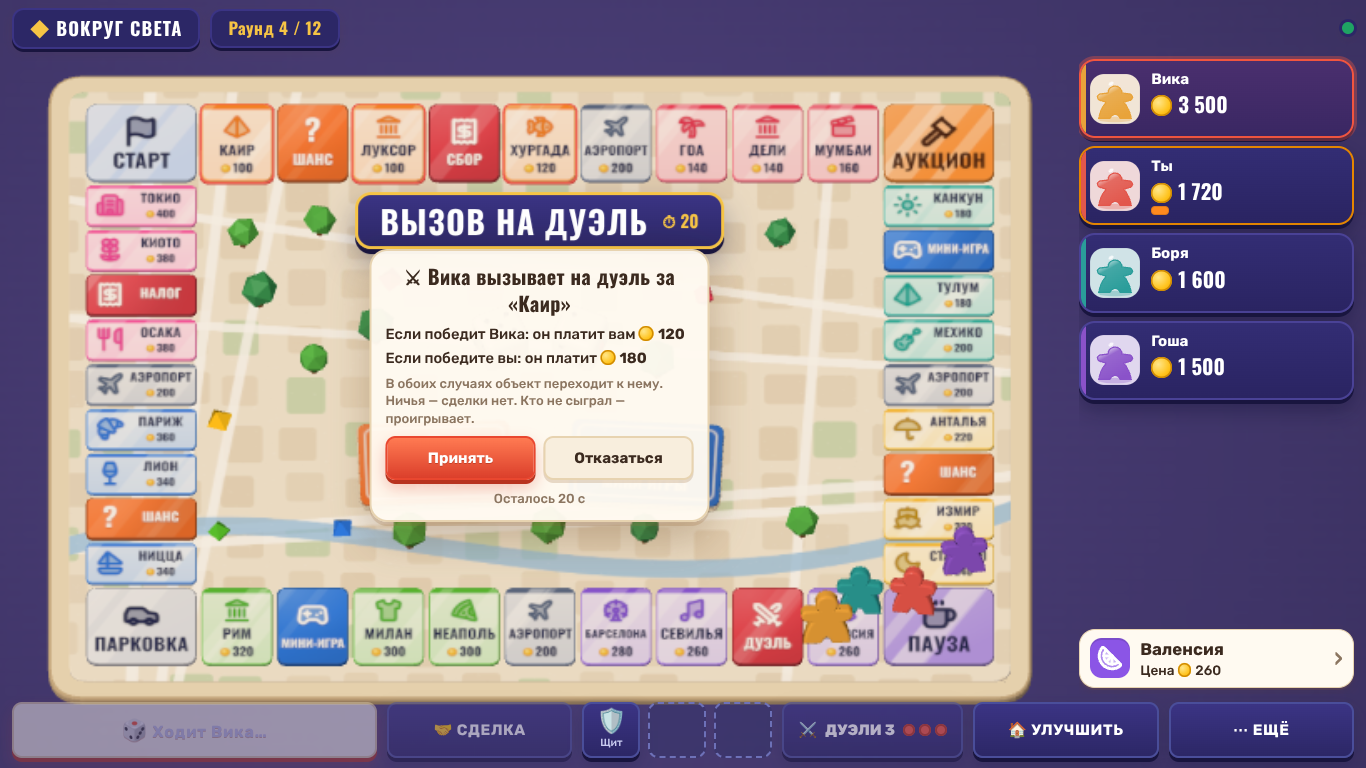
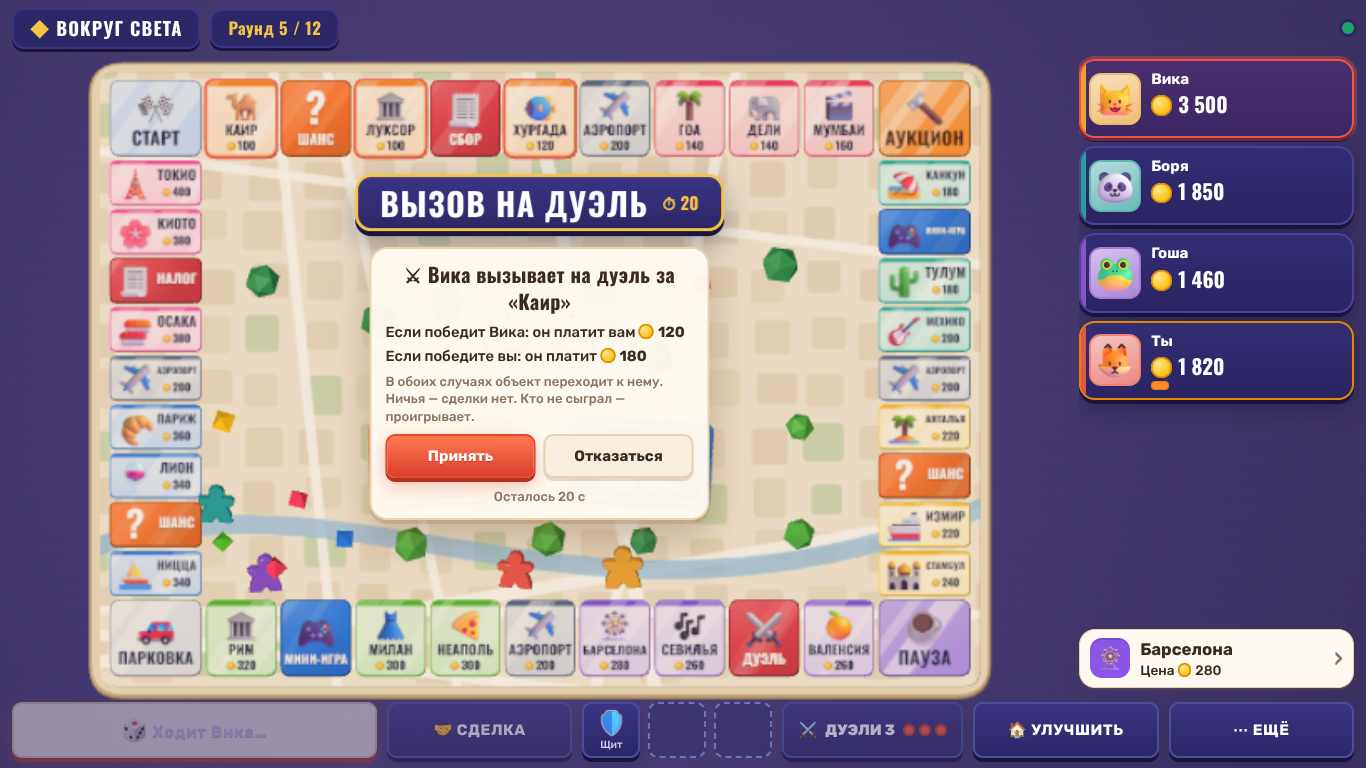
3D-иконки предметов и карт «Шанса», фишки у внутреннего края клеток, E2E с тремя мини-играми, документация
Claude-Session: https://claude.ai/code/session_01LHF2r8ytZCnyCujdkcjUQd

diff --git a/apps/client/src/render/Tokens.tsx b/apps/client/src/render/Tokens.tsx
@@ -6,19 +6,32 @@ import { currentSeat } from '../ui/hooks';
 import { WORLD } from '@pb/content';
 import { get, set, useStore } from '../state/store';
 import { Model } from './assets';
-import { TILE_HEIGHT, tileRect } from './layout';
+import { TILE_HEIGHT, outward, tileRect } from './layout';
 import type { Profile } from './layout';
 import { JellyFigure } from './jelly';
 
 const STEP_TIME = 0.16;
 const N = WORLD.tiles.length;
 
-/** Standing spot: each seat has its own corner of the tile so tokens never overlap. */
+/**
+ * Standing spot. Tokens stand just inside the ring (towards the board centre) in a row along the
+ * tile, so they never cover the tile's name and price; corner tiles are big enough to stand on.
+ */
 export function tileSpot(index: number, slot: number, profile: Profile): [number, number, number] {
   const r = tileRect(index, profile);
-  const fx = (slot % 2 === 0 ? -1 : 1) * 0.22;
-  const fz = (slot < 2 ? -1 : 1) * 0.18;
-  return [r.x + fx * r.w, TILE_HEIGHT, r.z + fz * r.d];
+  if (r.corner) {
+    const fx = (slot % 2 === 0 ? -1 : 1) * 0.24;
+    const fz = (slot < 2 ? -1 : 1) * 0.2;
+    return [r.x + fx * r.w, TILE_HEIGHT, r.z + fz * r.d];
+  }
+  const [ox, oz] = outward(r.side);
+  const along = (slot - 1.5) * (profile.id === 'portrait' ? 0.2 : 0.26);
+  // Top row: figures rise up the screen over the card, so they step further inward.
+  const inset = r.side === 0 ? 0.42 : 0.2;
+  const depth = (r.side % 2 === 0 ? r.d : r.w) / 2 + inset;
+  const x = r.x - ox * depth + (r.side % 2 === 0 ? along : 0);
+  const z = r.z - oz * depth + (r.side % 2 === 1 ? along : 0) + (slot % 2) * 0.06;
+  return [x, 0, z];
 }
 
 function Token({ player, slot, profile }: { player: PublicPlayer; slot: number; profile: Profile }) {
@@ -78,7 +91,7 @@ function Token({ player, slot, profile }: { player: PublicPlayer; slot: number; 
   const initial = useRef(tileSpot(player.position, slot, profile));
   if (player.role === 'left') return null;
   const ghost = player.role === 'ghost';
-  const scale = profile.id === 'portrait' ? 0.72 : 0.95;
+  const scale = profile.id === 'portrait' ? 0.62 : 0.78;
   return (
     <group ref={ref} position={initial.current}>
       {/* Whose turn: the figure stands a bit taller (static, so idle frames are not redrawn). */}

diff --git a/apps/client/src/ui/match/Overlays.tsx b/apps/client/src/ui/match/Overlays.tsx
@@ -1,5 +1,6 @@
 import { useEffect, useState } from 'react';
 import { CHANCE_CARDS, ITEM_INFO } from '@pb/content';
+import type { ChanceEffect } from '@pb/content';
 import { api, reclaim, send } from '../../net/connection';
 import { set, useStore } from '../../state/store';
 import { money, seatName } from '../format';
@@ -22,11 +23,34 @@ export function ChanceCardPopup() {
   if (!c) return null;
   return (
     <div className="chance-card" onClick={() => set({ chanceCard: null })} data-testid="chance-card">
+      <img className="cc-icon" src={chanceIcon(c.effect)} alt="" />
       <div className="cc-deck">Шанс · {seatName(m, card.seat, me)}</div>
       <div className="cc-title">{c.title}</div>
       <div>{c.text}</div>
     </div>
   );
+}
+
+/** 3D icon for a chance card by its effect (Fluent Emoji, public/icons/fluent). */
+function chanceIcon(e: ChanceEffect): string {
+  const f = (n: string) => `icons/fluent/${n}.png`;
+  switch (e.kind) {
+    case 'money':
+      return f(e.amount > 0 ? 'money' : 'chance-money-out');
+    case 'moveTo':
+    case 'moveBy':
+      return f('chance-compass');
+    case 'moveToNearest':
+      return f('plane');
+    case 'collectEach':
+      return f('chance-party');
+    case 'payEach':
+      return f('chance-gift');
+    case 'repairs':
+      return f('chance-tools');
+    case 'item':
+      return f(`item-${e.item}`);
+  }
 }
 
 export function Toast() {

diff --git a/apps/client/src/ui/styles.css b/apps/client/src/ui/styles.css
@@ -247,6 +247,9 @@ input, select { background: #fff; }
 .auction-now { display: flex; justify-content: center; gap: 10px; align-items: center; font-size: 1.05rem; }
 .trade-lines { display: grid; gap: 4px; text-align: left; font-size: 0.92rem; }
 .chance-card { position: absolute; left: 50%; top: 22%; transform: translateX(-50%); z-index: 8; width: min(320px, 80vw); text-align: center; color: #fff; background: linear-gradient(160deg, #ffa05a, #ff7a2f 55%, #e8601c); border: 4px solid #fff; border-radius: 20px; padding: 14px; box-shadow: 0 18px 40px rgba(95, 58, 22, 0.35); cursor: pointer; animation: drop 0.3s ease-out; text-shadow: 0 1px 0 rgba(120, 50, 10, 0.3); }
+.cc-icon { width: 72px; height: 72px; display: block; margin: -46px auto 2px; filter: drop-shadow(0 6px 8px rgba(0,0,0,0.25)); }
+.chance-card { margin-top: 30px; }
+.slot-icon { width: 30px; height: 30px; display: block; }
 .cc-deck { font-size: 0.75rem; text-transform: uppercase; letter-spacing: 0.08em; opacity: 0.9; }
 .cc-title { font-family: var(--display); font-weight: 700; font-size: 1.5rem; margin: 4px 0; }
 @keyframes drop { from { opacity: 0; transform: translate(-50%, -14px); } }

diff --git a/apps/client/src/ui/match/ActionBar.tsx b/apps/client/src/ui/match/ActionBar.tsx
@@ -108,7 +108,7 @@ function Items() {
             onClick={() => (it === 'cone' || it === 'ticket') && set({ placing: it, sheet: null })}
             data-testid={`item-${it}`}
           >
-            <span>{ITEM_ICON[it]}</span>
+            <img className="slot-icon" src={`icons/fluent/item-${it}.png`} alt={ITEM_ICON[it]} />
             <small>{ITEM_INFO[it].name}</small>
           </button>
         ) : (

diff --git a/docs/RULES_V1.md b/docs/RULES_V1.md
@@ -72,13 +72,14 @@
 - Кнопка «продать автоматически» и истечение таймера запускают детерминированную ликвидацию: сначала улучшения (самый высокий уровень, при равенстве — меньший индекс клетки), затем залог по возрастанию индекса, пока долг не покрыт.
 - Не хватает и после этого → банкротство: оставшиеся деньги идут кредитору (до размера долга), объекты возвращаются банку чистыми (без улучшений и залогов), предметы удаляются, непокрытый остаток списывается. Игрок становится **призраком**.
 
-## Карточки «Шанс» (12)
-+100, +50, −50, −80, на «Старт» (с зарплатой), вперёд на 3, назад на 2, «капремонт» 25 за уровень улучшений, предметы: щит, конус, скидка ×2.
+## Карточки «Шанс» (33, с 02.11.2026)
+Тематика путешествий, тексты свои (`packages/content/src/cards.ts`). Деньги: +40…+150 (6 карт), −40…−100 (5 карт). Перемещения: на «Старт», в Париж, Каир, Рим (с зарплатой, если пройден «Старт»), на «Аукцион», вперёд до ближайшего аэропорта (2 карты), вперёд на 3, назад на 3. Игроки: «каждый платит вам» 20 и 30, «вы платите каждому» 20 и 15 (неплатёжеспособный соперник уходит в обычный долг). Улучшения: 25 и 15 за уровень. Предметы: щит ×2, скидка ×2, конус, билет ×2.
 
 ## Предметы (инвентарь — 3 слота)
 - **Щит** — автоматически отражает следующую ловушку или проделку призрака, затем расходуется. Аренду и налоги не отменяет.
 - **Скидка** — перед оплатой аренды можно уменьшить её на 50% (платится `amount − floor(amount × 0.5)`). После перехода к долгу задним числом не применяется.
 - **Конус** — ставится в свой ход на обычную клетку (не угол, не занятая); следующий *другой* живой игрок, вставший на неё, платит 30 банку (если нет щита); ловушка исчезает. На поле не более 4 ловушек.
+- **Билет** (с 02.11.2026) — в свой ход **вместо броска** перелететь вперёд в любой другой аэропорт; зарплата, если пролетели «Старт»; дальше обычные правила клетки (покупка/аренда).
 - Переполнение: 10 с на выбор замены; по таймауту новый предмет отклоняется.
 
 ## Мини-игры
@@ -86,6 +87,7 @@
 - Участвуют все за столом, включая призраков. Объяснение и готовность (до 10 с), игра, результаты (6 с), возврат к следующему игроку.
 - Призы живым по местам: 120 / 80 / 40 / 20. Ничья делит призы занятых мест поровну с округлением вниз. Не сыгравший (ни одного нажатия) — 0 и вне таблицы. Призраки ранжируются отдельно и получают +1 энергии за участие.
 - **«Касса закрывается»** (реакция, 30 с): сверху заказ, внизу появляются покупатели. Верное нажатие +2 (+1 за быстрое — в первой половине окна), ошибка −2, больше 6 нажатий в секунду — −1. Победа зависит от числа верных действий, а не от того, чей пакет пришёл первым: окно сигнала 1,7 с, допуски −150/+400 мс.
+- **«Географ»** (викторина, с 02.11.2026): 6 вопросов «какой стране принадлежит место, блюдо или символ», 4 варианта, 7 с на ответ, один ответ на вопрос. Верно +2, быстро (до 3 с) +3, ошибка 0. Когда ответили все — правильный ответ показывается сразу. Правильные ответы хранятся только на сервере и попадают в снимок после окончания вопроса. Банк — 53 вопроса (`packages/content/src/geo.ts`). Порядок общих мини-игр: «Касса» → «Курьер» → «Географ» → …; в дуэли — случайная из трёх.
 - **«Курьер без навигатора»** (память): 4 маршрута длиной 3, 4, 5, 6 остановок на сетке 3×3. Показ маршрута → ввод. Каждая верная остановка +1, весь маршрут +2. Ошибка завершает попытку текущего маршрута. Последовательность видна в публичном состоянии только во время показа.
 
 ## Дуэли

diff --git a/PROGRESS.md b/PROGRESS.md
@@ -51,6 +51,17 @@
 - **40 клеток + «Вокруг света» (02.11, по решению пользователя):** карта, раскладки ПК/телефона, тесты (68/68), документы обновлены (`docs/RULES_V1.md`). Не сделано: приближение камеры на телефоне (ряды мелкие), пересмотр экономики (у ботов 0 банкротств и почти нет комплектов).
 - **Не проверено:** реальные ПК-видеокарты и телефоны (FPS, нагрев, батарея); вид на iOS/Android WebView; остальные экраны (вход, лобби, мини-игры, итоги) получили только светлую палитру.
 
+## Ночь 02→03.11.2026: «наполнить контентом по максимуму» (просьба пользователя, ушёл спать)
+Сделано (всё в ветке, тесты зелёные — см. `docs/VALIDATION.md`):
+- **Колода «Шанс» 12 → 33 карты** в теме путешествий + новые эффекты: «до ближайшего аэропорта», «каждый платит вам», «вы платите каждому».
+- **Третья мини-игра «Географ»** — викторина: 6 вопросов из банка 53, 4 варианта, очки за скорость; ответы скрыты на сервере; бот, dev-пропуск, тесты ядра, сценарий в E2E.
+- **Новый предмет «Билет»** — вместо броска перелёт в любой аэропорт (команда `USE_TICKET`, схема в протоколе, тесты).
+- **Факты о городах** в описаниях 24 городов (лист клетки).
+- **Персонажи — 8 объёмных зверят** (Fluent Emoji 3D, MIT) вместо пиксельных портретов: лобби, игроки, итоги, мини-игры.
+- **Иконки предметов и карт «Шанса»** — 3D; экран входа и лобби — тёмно-фиолетовый фон и название «Вокруг света».
+- **Фишки** стоят у внутреннего края клетки и не закрывают название и цену.
+Не сделано / решать с пользователем: экономика (у ботов нет банкротств и комплектов), телефон (мелкие ряды, нужно приближение), редактор внешности, второй вариант визуала.
+
 ## Над чем работаем сейчас
 **Решение пользователя (02.11.2026):** до тестов с друзьями и до туннеля/деплоя — **довести саму игру**:
 1. **Визуал:** пользователю текущий вид «пока не очень нравится» («дёшево и плоско, скучно, не похоже на референсы»). **Новое направление — `docs/VISUAL_DIRECTION.md`** (солнечная настольная игра на деревянном столе, яркие карточки-клетки, мармеладные фигурки; референс — Behance «MONOPOLY Around Asia»). Нужно выяснить, что именно (поле, персонажи, цвета, интерфейс, анимации), и перейти от программных заглушек к моделям (Blender → `.glb` через `apps/client/public/assets.json`, см. `docs/ASSETS.md`). Ориентир — референсы в `output/concepts/`.

diff --git a/docs/CONTENT_BACKLOG.md b/docs/CONTENT_BACKLOG.md
@@ -5,8 +5,8 @@
 ## Карты-кандидаты
 | Тема | Идея визуала | Возможная особенность |
 |---|---|---|
-| Современный город («Мегаполис») | **реализована как первая карта** | — |
-| Вокруг света | Страны-вымышленные регионы на кольце, самолётики | Клетка «пересадка»: перелёт на противоположную сторону |
+| Современный город («Мегаполис», 32 клетки) | была первой картой, удалена 02.11.2026 | — |
+| Вокруг света | **реализована 02.11.2026 (40 клеток)** | аэропорты + предмет «Билет» (перелёт в аэропорт) |
 | Космическая станция | Модули станции, иллюминаторы, невесомость | Шлюз: ход назад вместо вперёд по выбору |
 | Пиратский архипелаг | Острова, бухты, корабли-фишки | Шторм: всех сдвигает на 1 клетку |
 | Королевство | Замки, деревни, ярмарки | Налог короля растёт с раундом |
@@ -14,5 +14,6 @@
 | Парк безумия | Аттракционы, американские горки | Горка: случайный телепорт на 3–6 клеток |
 
 ## Мини-игры
+- **«Географ»** (викторина о странах) — **реализована 02.11.2026**.
 - **«Угадай человека»** — вопросы о друзьях за столом (утверждено как интерес, отложено до проверки первых двух игр).
 - Идеи на потом: «Точный тайминг» (остановить стрелку), «Сортировка посылок», «Ритм».

diff --git a/docs/VALIDATION.md b/docs/VALIDATION.md
@@ -82,3 +82,12 @@
 | `npm run e2e` | ✅ 1/1 за 3,5 мин |
 
 Симуляция баланса (30 партий ботов, разовый замер, скрипт не закоммичен): банкротств 0, полных комплектов к концу ≈0,03/партию, улучшений 0, куплено ≈21/28 объектов, ~21 мин симулированного времени. Это поведение ботов (не торгуются), а не замер партии людей.
+
+## 03.11.2026 (ночь) — контент: «Шанс» 33, «Географ», «Билет», зверята
+| Команда | Результат |
+|---|---|
+| `npm run typecheck` | ✅ |
+| `npm test` | ✅ 76/76 (новые: колода и её эффекты, «Географ» — скрытые ответы/очки/раннее раскрытие/автопрохождение, «Билет») |
+| `npm run e2e` | ✅ 1/1 за 4,7 мин; теперь проходит **все три** общие мини-игры (новые кадры `15b-quiz-desktop`, `15c-quiz-portrait`) |
+
+Попутно исправлены два теста «Кассы», зависевшие от случайного порядка сигналов (новая колода изменила последовательность ГСЧ): команды в тестах теперь не идут назад во времени. Логика игры при этом не менялась.
